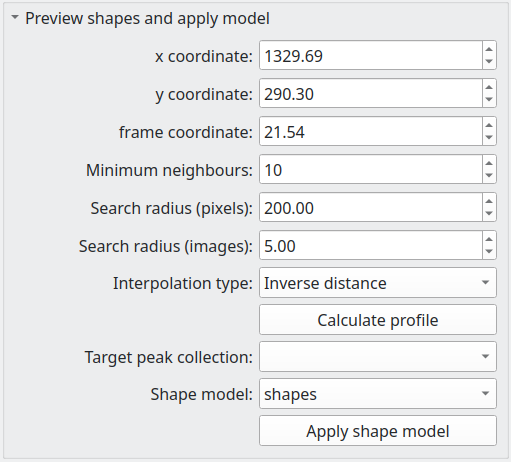
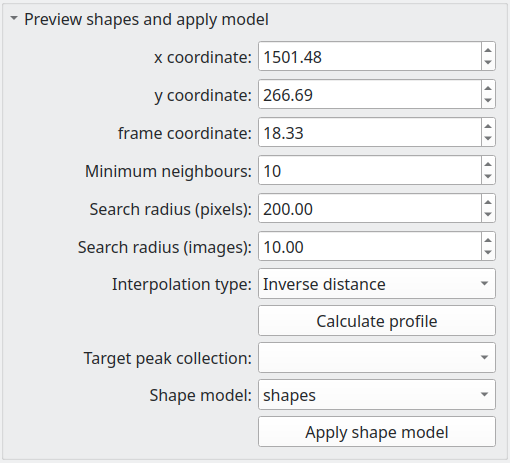
Update profile integration documentation

diff --git a/doc/sphinx/tutorial.rst b/doc/sphinx/tutorial.rst
@@ -92,7 +92,7 @@ panel, and any mistakes can be selected and deleted.
 
 In this case we have masked a width of 250 pixels on the left and right of the
 image to remove backscattered peaks and the beam stops, the central beam stop,
-and the seam between detector plates between 1725 and 1740 pixels.
+and the seam between detector plates between 1729 and 1736 pixels.
 
 .. _find_peaks:
 
@@ -153,16 +153,17 @@ get good statistics.
    After peak finding and integration
 
 Note that after integration some peaks are marked as invalid; specifically,
-approximately 15000 out of 26000 peaks are valid. We can check the ``reason for
-rejection`` column in the table to see why they were rejected. In the first few
-frames and last few frames of the data set, the reason is usually because the
-peak extends outside the sample rotation range and is therefore incomplete. Also
-note how peaks close to the rotation axis are often rejected, since they
-intersect the Ewald sphere on many images, and frequently extend outside the
-sample rotation range as a result. In any case, we have a good number of peaks,
-which we can use to both determine the unit cell and generate a good shape
-model. Finally, click on ``create peak collection`` and name the collection
-``found``.
+approximately 16802 out of 25318 peaks are valid (Note that this number might
+vary if your masks are not exactly the same as in the screenshot). We can check
+the ``reason for rejection`` column in the table to see why they were rejected.
+In the first few frames and last few frames of the data set, the reason is
+usually because the peak extends outside the sample rotation range and is
+therefore incomplete. Also note how peaks close to the rotation axis are often
+rejected, since they intersect the Ewald sphere on many images, and frequently
+extend outside the sample rotation range as a result. In any case, we have a
+good number of peaks, which we can use to both determine the unit cell and
+generate a good shape model. Finally, click on ``create peak collection`` and
+name the collection ``found``.
 
 .. _index:
 
@@ -266,8 +267,8 @@ stage, but want to be sure that the predicted peak shapes are reasonable so
 that it's possible to refine them. The most important parameter at this stage is
 ``minimum I/sigma``, excluding weak peaks from the model. Set this to 3.0, then
 click ``build shape model`` and wait for the integration to complete. In the
-example, around 15000 shapes should be generated, i.e. the model consists of the
-shapes of 15000 strong peaks. Click on ``save shape model`` and save the model.
+example, around 16436 shapes should be generated, i.e. the model consists of the
+shapes of 16436 strong peaks. Click on ``save shape model`` and save the model.
 
 .. _shape_params:
 .. figure:: images/tutorial/shape_params.png
@@ -279,8 +280,8 @@ shapes of 15000 strong peaks. Click on ``save shape model`` and save the model.
 
 A shape generated at specific detector coordinates can be previewed using the
 shape preview widget. Here I have chosen the coordinates of a strong peak at
-coordinates ``(1330, 290, 22)``, and compute a mean shape within a radius of 200
-pixels and 5 frames.
+coordinates ``(1501, 267, 18)``, and compute a mean shape within a radius of 200
+pixels and 10 frames.
 
 .. _shape_preview:
 .. figure:: images/tutorial/shape_preview_params.png
@@ -459,14 +460,6 @@ then clicking ``refine`` again, followed by ``update``. From the screenshot
 below, we can see not much has changed, but there are a few higher resolution
 peaks that have moved significantly.
 
-.. _refine2:
-.. figure:: images/tutorial/refine2.png
-   :alt: Predicted peaks pre- and post-refinement, second run
-   :name: fig:refine2
-   :width: 100.0%
-
-   Predicted peaks pre- and post-refinement, second run
-
 This is good enough for now, but later on we might want to run the refiner again
 when we've applied a better shape model.
 
@@ -625,6 +618,101 @@ refinement of structural models; it is simply a list of peaks with their Miller
 indices, coordinates, intensities and sigmas. The merged peaks tab gives the
 redundancy, the number of symmetry-equivalent peaks for a given index, together
 with a "goodness of fit" parameter in the form of a :math:`\chi^2` value.
+
+Profile integration
+-------------------
+
+We can improve the quality of the integration at high resolutions by using
+profile integration for weak peaks (see :ref:`sec_3dprofile`). Instead of
+subtracting a mean local background from each pixel and summing together the
+resulting values in a given region, it is usually more accurate to weight each
+pixel by a factor corresponding to the value of a pixel in a mean profile. That
+is, we use strong peaks within a given radius of our reference weak peaks to
+construct a mean profile, and use the resulting normalised shape to weight pixel
+values of a peak with a poorly defined shape.
+
+There are a few parameters that strongly affect the quality of profile
+integration; the first of these is the number of histogram bins used in
+constructing the mean profiles. The first of these is in the construction of the
+shape model: the default grid is 20 x 20 x 10, corresponding to the x, y and
+frame number coordinates respectively. Empirically, a lower value of the number
+of frame bins seems to work better, so construct a new shape model using a 20 x
+20 x 6 grid (the parameters are pictured below).
+
+.. _profile_shape_params:
+.. figure:: images/tutorial/profile_shape_params.png
+   :alt: Shape model parameters for profile integration.
+   :name: fig:profile_shape_params
+   :width: 30.0%
+
+   Shape model parameters for profile integration
+
+This new model should be set on the integration screen, where the remaining
+parameters are, notably the radius for neighbour searching and the minimum
+number of neighbours.
+
+.. _profile_integration_params:
+.. figure:: images/tutorial/profile_integration_params.png
+   :alt: Profile integration parameters
+   :name: fig:profile_integration_params
+   :width: 30.0%
+
+   Profile integration parameters
+
+Choosing the correct neighbour search parameters is a delicate balancing act.
+Ideally we want a good statistical model for our weak peak, which means using as
+many peaks as possible to generate the profile. However, choosing an excessively
+large radius will degrade the model quality because of the spatial dependence of
+peak shapes, i.e. if our radius is large, we are more likely to include strong
+peaks that are far enough away to have radically different shapes. Moreover, we
+do not want to reintegrate strong peaks, since their shape is already well
+defined, and any attempt to scale the pixel values will simply make the
+integration quality worse. Therefore, we check the ``Maximum strength for
+profile integration box`` and set the upper limit to profile integrate a peak to
+a strength of 1. We can motivate this choice by looking at the peak statistics
+in the "reject" widget.
+
+.. _strength_distribution:
+.. figure:: images/tutorial/strength_distribution.png
+   :alt: Histogram of sum-integrated peak strengths
+   :name: fig:strength_distribution:
+   :width: 100.0%
+
+   Histogram of sum-integrated peak strengths
+
+We can use this tool to plot a histogram of sum-integrated peak strengths. The
+vast majority of peaks have a strength lower than 10. Adjusting x-axis range on
+the plot filters the detector image to show the peak *in that range* in green,
+and any outside that range in red. By experimenting with this view, it should be
+possible to convince yourself that the peaks that are essentially invisible to
+the naked eye on the image have strengths below 1, although this value could
+probably be optimised somewhat.
+
+Note that this is the *sum integrated* strength, and relies on
+having already integrated the predicted peaks using pixel sum integration.
+Set the profile integration parameters as above, then integrate the predicted
+peaks again.
+
+.. _profile_integrated:
+.. figure:: images/tutorial/profile_integrate.png
+   :alt: After profile integration
+   :name: fig:profile_integrate
+   :width: 100.0%
+
+   After profile integration
+
+Note that the profile integrated columns in the table are now populated. We can
+now switch to the merge widget, and compare the integration metrics. For this
+choice of parameters, we have improved :math:`R_\mathcal{pim}`, but it may be
+possible to improve it even more.
+
+.. _profile_merge:
+.. figure:: images/tutorial/profile_merge.png
+   :alt: Merge statistics after profile integration
+   :name: fig:profile_merge
+   :width: 100.0%
+
+   Merge statistics after profile integration
 
 Further work
 ------------

diff --git a/doc/sphinx/theory.rst b/doc/sphinx/theory.rst
@@ -174,14 +174,26 @@ the peak and background. If we interpret the eigenvalues :math:`\sigma_i, (i =
 axes, then scaling the peak ellipsoid by :math:`3\sigma` means that 99.7% of the
 points are contained in the peak region.
 
+.. _finder_params:
+.. figure:: images/theory/ellipsoid.png
+   :alt: Integration region ellipsoiid
+   :name: fig:ellipsoid
+   :width: 60.0%
+
+   Integration region ellipsoid
+
+An example is sketched above. The dotted ellipses are the integration regions
+where the ellipsoids intersects the detector images. The grid is a single image,
+each square representing one pixel. The principle axis of the ellipsoid is not
+generally perpendicular to the image plane, so centre of the ellipse
+intersecting the image will vary from frame to frame, as the sample rotates.
+
 .. _beam_profile:
 
 Rotating the beam profile
 ~~~~~~~~~~~~~~~~~~~~~~~~~
 
-We make a simplifying assumption, that for a *perfect plane wave*
-:math:`{\mathbf{{k}}}_\text{i}`, the observed scattering function has the
-form
+We make a simplifying assumption, that for a *perfect plane wave* :math:`{\mathbf{{k}}}_\text{i}`, the observed scattering function has the form
 
 .. math::
 
@@ -450,54 +462,23 @@ then put the solved values into the error model
 and iterate until either :math:`I` becomes negative, or :math:`(B, I)`
 do not change within some given convergence criterion.
 
-**Bayesian approach** [JWu apr19]: Determine expectation values or most
-probable values of :math:`B,I` from the conditional probability
+.. _profile_fitting:
+.. figure:: images/theory/profile-fitting.png
+   :alt: Profile fitting process
+   :name: fig:profile-fitting
+   :width: 60.0%
 
-.. math::
-   :label: Ebayes
+   Profile fitting process
 
-     P(B,I|M) \propto P(M|B,I) P(B) P(I).
-
-Count statistics of the single pixels are independent of each other,
-hence
-
-.. math::
-   :label: Ec2p
-
-     P(M|B,I) = \prod_p\, c(M_p|B,I;R_p)
-
-with the single-pixel count probability distribution given by Poisson
-statistics,
-
-.. math:: c(m|B,I;r) = \frac{\lambda^m{\mathrm e}^{-\lambda}}{m!}
-
-with :math:`\lambda=B+Ir`.
-
-Rewrite :eq:`Ebayes` as
-
-.. math:: \ln P(B,I|M) = \sum_p\Big\{M_p\ln(B+IR_p)-(B+IR_p)\Big\} +\ln P(B) + \ln P(I) + \mathrm{const}.
-
-Let :math:`N` pixels contribute to the sum. Use the
-normalization :eq:`Eresnor`. Then
-
-.. math:: \ln P(B,I|M) = \sum_p\Big\{M_p\ln(B+IR_p)\Big\}-(NB+I) +\ln P(B) + \ln P(I) + \mathrm{const}.
-
-We now must specify the a priori distributions of :math:`B` and
-:math:`I`. This cannot be done without some arbitrariness. For instance,
-assume equal probability per decade within given limits. Then
-
-.. math:: P(I) = \frac{1}{\ln(I_{+}/I_{-})} \frac{1}{I},
-
-and similarly for :math:`B`, lest we breed a better idea.
-
-Now, compute the most probable parameter values from
-
-.. math::
-
-   \begin{array}{l}
-     \partial \ln P(B,I|M) / \partial B = 0, \\[1.2ex]
-     \partial \ln P(B,I|M) / \partial I = 0.
-     \end{array}
+The image above demonstrates the process of generating and fitting profiles in
+practice. One or more strong peaks in the neighbourhood of a weak reference peak
+are averaged over histogram with a different grid. In the image, a strong peak
+with a 7 x 6 pixel bounding box is binned on a 20 x 20 histogram, which is
+normalised after adding all of the neighbouring peaks. In practice, each pixel
+of a strong peak is subdivided on a finer mesh, in this case, a 5 x 5 subgrid,
+and 1/25 of the pixel signal is added to the relevant histogram bin. This
+results in smoother profiles. When profile integrating a weak peak, the profile
+value of pixel :math:`i`, :math:`p_i`, is taken from the nearest histogram bin.
 
 .. _sec_isigma:
 
